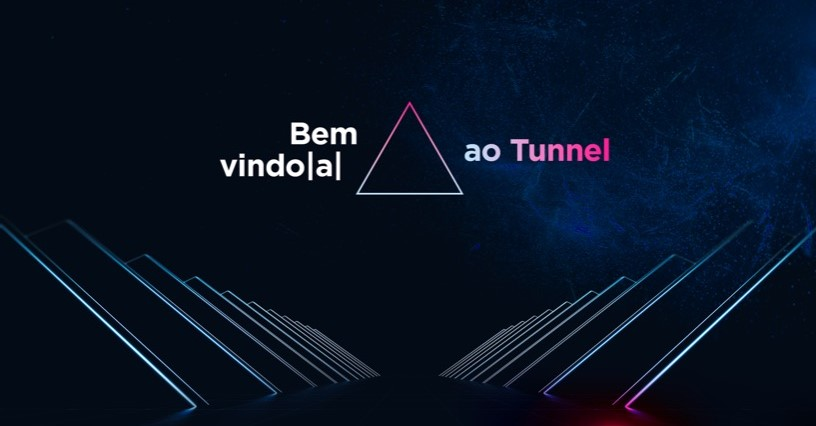
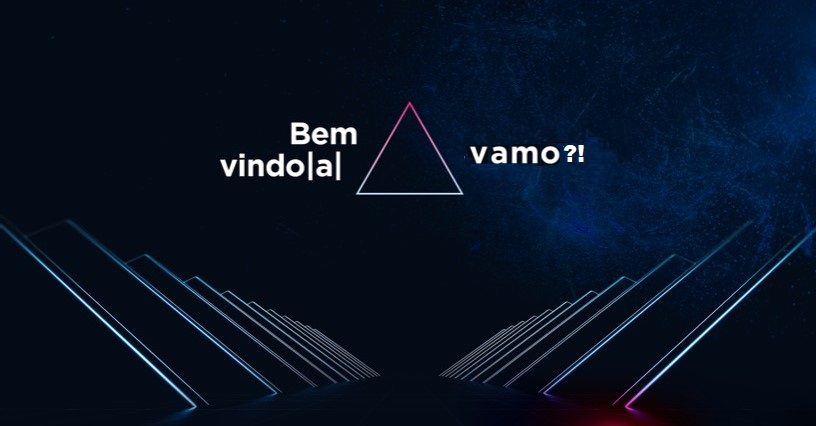
Bora? pra vamo.chat

Changed region(s): [[0.5515, 0.3052, 0.7659, 0.3967]]

diff --git a/src/index.html b/src/index.html
@@ -6,7 +6,7 @@
   <base href="/">
   <meta name="viewport" content="width=device-width, initial-scale=1">
   <link rel="icon" type="image/x-icon" href="favicon.ico">
-  <meta property="og:title" content="Bora?">
+  <meta property="og:title" content="vamo.chat">
   <meta property="og:image" content="assets/og_image.jpeg">
   <link rel="preconnect" href="https://fonts.gstatic.com">
   <link href="https://fonts.googleapis.com/css2?family=Roboto:wght@300;400;500&display=swap" rel="stylesheet">
